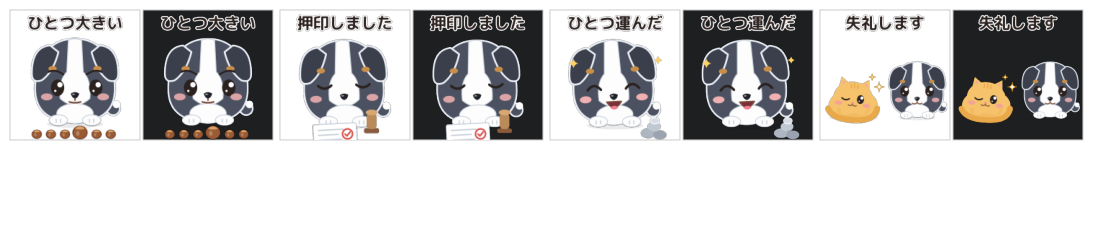
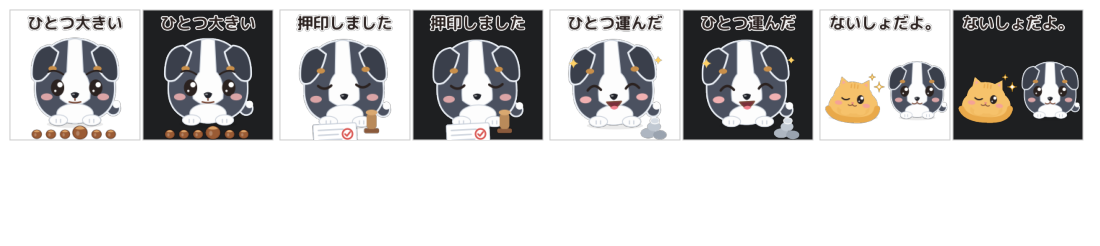
ADR-0129: the four duo stickers go up as normal stickers, the test is not run; P1 caption 'Bi mat nha'; stale notes in spec 19, H33 and the handoffs corrected

Changed region(s): [[0.7418, 0.0569, 0.9891, 0.1423]]

diff --git a/docs/plans/assets/paws/build_duo_stickers.py b/docs/plans/assets/paws/build_duo_stickers.py
@@ -220,9 +220,9 @@ STK_LIST = [
     ("D3", "one-pebble", ("Xong một viên.", "One pebble.", "ひとつ運んだ"), ("Xong một viên", "One pebble", "ひとつ運んだ"),
      ("Paws vừa mang một viên sỏi đến đống sỏi, đặt xuống và tự hào", "carried one pebble to the pile, put it down and looks proud", "小石をひとつ山まで運んで置き、とくいげにしている"),
      {"vi": ["tự hào", "xong", "việc nhỏ", "sỏi"], "en": ["proud", "small win", "done", "pebble"], "ja": ["ほこらしい", "ひとつ", "小石"]}, "d3"),
-    ("P1", "excuse-me", ("Xin phép nhé.", "Excuse me.", "失礼します"), ("Xin phép nhé", "Excuse me", "失礼します"),
-     ("Paws rón rén đi ngang qua Peak đang ngủ; Peak hé một mắt nhìn theo", "tiptoes past sleeping Peak; Peak opens one eye and watches", "ねているPeakのそばをそろそろと通りぬける。Peakは片目をあけて見ている"),
-     {"vi": ["xin phép", "rón rén", "lịch sự", "ngủ"], "en": ["polite", "excuse me", "tiptoe", "nap"], "ja": ["失礼", "ていねい", "ねている", "そろそろ"]}, "p1"),
+    ("P1", "our-secret", ("Bí mật nha.", "Our secret.", "ないしょだよ。"), ("Bí mật nha", "Our secret", "ないしょだよ"),
+     ("Peak nháy mắt như chia sẻ một bí mật, Paws ngồi cạnh mỉm cười", "winks as if sharing a secret, with Paws sitting beside, smiling", "ないしょだよ、とウインクしている。となりでPawsがほほえんでいる"),
+     {"vi": ["bí mật", "nháy mắt", "hai đứa", "lầy"], "en": ["secret", "wink", "friends", "cheeky"], "ja": ["ないしょ", "ウインク", "ふたり", "ひみつ"]}, "p1"),
     ("P2", "meeting", ("Họp nhé?", "Meeting?", "会議しよう？"), ("Họp nhé?", "Meeting?", "会議しよう？"),
      ("Paws ngậm một tờ giấy nhỏ ghi cuộc họp đưa ra; Peak nhìn lên trần nhà", "holds out a tiny paper marked as a meeting; Peak looks at the ceiling", "小さな会議のお知らせをくわえて差し出す。Peakは天井を見ている"),
      {"vi": ["họp", "cuộc họp", "né", "công sở"], "en": ["meeting", "office", "avoid", "invite"], "ja": ["会議", "ミーティング", "会社", "さける"]}, "p2"),

diff --git a/docs/handoff/website-duo-stickers.md b/docs/handoff/website-duo-stickers.md
@@ -1,10 +1,10 @@
 # Note to the website session: the four duo stickers are ready (handed over by the author's order)
 
-**From:** the sticker session, 2026-11-15, **by the author's order** ("settle the four pictures and hand them to the website"). **Status:** a handover of pictures; please read the open question at the end before you publish. This follows `website-duo-test.md` (the app session's information note) and spec 19 (`spec/19-duo-test-plan.md`).
+**From:** the sticker session, 2026-11-15, **by the author's order** ("settle the four pictures and hand them to the website"). **Status:** a handover of pictures; the decision is in ADR-0129 (publish now). This follows `website-duo-test.md` (the app session's information note) and spec 19 (`spec/19-duo-test-plan.md`).
 
 ## What is delivered
 A set of **four stickers**, `docs/plans/assets/paws/set-duo-4/` (a folder like `set-v2`):
-- `vi/`, `en/`, `ja/` with `one-is-off.png`, `stamped.png`, `one-pebble.png`, `excuse-me.png` (360 x 360, transparent, flat, caption baked in, as set-v2; the file name is the English slug).
+- `vi/`, `en/`, `ja/` with `one-is-off.png`, `stamped.png`, `one-pebble.png`, `our-secret.png` (360 x 360, transparent, flat, caption baked in, as set-v2; the file name is the English slug).
 - `manifest.json`: per sticker `id` (D1, D2, D3, P1), `slug_en`, `file`, `kind`, `text`, `title`, `alt`, `synonyms`, `reviewed` per language, plus the licence and font credits copied from set-v2. The shape follows `set-v2/manifest.json` and spec 13 section 2; **tags (`emotions`, `situations`, `edge`) are not given**: your keyword rules give them at build time (spec 13), and the build will name any caption the rules do not match.
 - Look at them first in `docs/plans/assets/paws/stickers-draft/duo-stickers-vi.png`.
 
@@ -13,7 +13,7 @@ A set of **four stickers**, `docs/plans/assets/paws/set-duo-4/` (a folder like `
 | D1 | `one-is-off` | Lệch một hạt. | One is off. | ひとつ大きい | Paws looks at a straight row of chestnuts, one is bigger |
 | D2 | `stamped` | Đã đóng dấu. | Stamped. | 押印しました | Paws, calm, a stamp and a paper with a red tick |
 | D3 | `one-pebble` | Xong một viên. | One pebble. | ひとつ運んだ | Paws, proud, beside a small pile of pebbles |
-| P1 | `excuse-me` | Xin phép nhé. | Excuse me. | 失礼します | Peak winks (one eye shut, two sparkles on the open-eye side), Paws sits beside |
+| P1 | `our-secret` | Bí mật nha. | Our secret. | ないしょだよ。 | Peak winks (one eye shut, two sparkles on the open-eye side), Paws sits beside |
 
 ## Facts that matter for the pages
 - **A new character: Paws, a black-and-white dog, Peak's partner** (ADR-0127, ADR-0128). The name Paws is not printed on the stickers. Peak is unchanged. Licence **CC BY 4.0** like all the others (ADR-0126); the font credits are the same as set-v2.
@@ -22,8 +22,8 @@ A set of **four stickers**, `docs/plans/assets/paws/set-duo-4/` (a folder like `
 - The counters stay as they are (ADR-0092, no new counter); `popular.json` is not changed.
 - No arm strokes, no meme text, no health claim in any caption.
 
-## Open question for the author (not for you to decide)
-Whether the four go **live at once** or are **held until the author orders the test** (spec 19 says the test is not ordered yet, and `website-duo-test.md` said "do not change the site yet"). If this note is read as "publish now", ask the author; the pictures are final but not yet seen in a browser, and the Worker (V-159) is not checked.
+## Decided by the author (ADR-0129)
+**Publish now, as normal stickers. The duo test of spec 19 is not run** (no control among the four). Do not build a test row, a daily order change or a day-7 swap; the stickers stand in the set like the others. The earlier note `website-duo-test.md` is superseded.
 
 ## Not verified
 The author has not seen the four in a browser or on a phone; the PNGs were rendered with PyMuPDF; the en and ja lines have no native reader; the tags are untried (your rules decide them); the sticker at 32 px (D1's chestnuts and D2's stamp are small there).

diff --git a/docs/handoff/README.md b/docs/handoff/README.md
@@ -45,9 +45,9 @@ Notes handed **from one session or conversation to another** (a product discussi
 | [`licensing-and-brand-assets.md`](licensing-and-brand-assets.md) | a licensing and brand discussion (Vinh and Claude), written for Claude Code | 2026-11-15 | **received; handled on 2026-11-15**: the inventory and the SignPath check (`../plans/brand-inventory.md`), spec 18; the author decided to **keep MIT and CC BY as before, with no trademark policy** (ADR-0126, which supersedes ADR-0125); nothing in `LICENSE`, the README, CONTRIBUTING or the site changes. Corrections: the stickers are in the repository (`set-v2`) and already CC BY 4.0 (ADR-0051) | Proposes direction B: the code open (MIT) and the character Peak, its name and its images under their own terms, to keep merch and commercial stickers; says it is not legal advice and the final texts need the author and a lawyer |
 | [`duo-characters-hypothesis.md`](duo-characters-hypothesis.md) | the author (the idea) with an analysis in Claude chat and a comparison with a Gemini proposal | 2026-11-15 | **received; handled on 2026-11-15 as documents**: spec 19 (the test plan), `../plans/duo-charter-impact.md`, `../plans/duo-name-candidates.md`, hypothesis H33, E31; **no change to the app** (the note forbids it); corrections: the specs are in `spec/`, the sticker page is spec 13, spec 10 was taken, "one Peak" is ADR-0068 and not the README; the name **Paws** was chosen by the author and the pasted SVG was render-checked on 2026-11-15 (`../plans/duo-paws-svg-check.md`) | Proposes a second character opposite Peak (a hard-working dog) as an idea to be checked before anything is built; a document for the docs folder only |
 | [`website-brand-terms.md`](website-brand-terms.md) | the app session | 2026-11-15 | **nothing to change** (ADR-0126: the licences stay as they were) | Lists the site texts that would change if the author chooses direction B2, and the fact that the published stickers carry two licences |
-| [`website-duo-test.md`](website-duo-test.md) | the app session | 2026-11-15 | **for information; nothing to change yet** (the test is a plan, not ordered) | The eight stickers of the duo test, the order rule and what to confirm in advance (the counting Worker) |
-| [`website-duo-stickers.md`](website-duo-stickers.md) | the sticker session | 2026-11-15 | **a handover to the website session**, by the author's order; whether to publish at once is an open question for the author | The four duo stickers (D1-D3, P1; `docs/plans/assets/paws/set-duo-4/`), what is parked, no control among the four |
-| [`sticker-paws-reference.md`](sticker-paws-reference.md) | the app session | 2026-11-15 | **a request to the sticker session** (ADR-0127); **picked up and answered 2026-11-15**: the reference sheet is drawn (`docs/plans/paws-reference-sheet.md`), waiting for the author's look | The reference drawing of Paws, the dog, with what the render check found; the author looks at it before anything else is drawn |
+| [`website-duo-test.md`](website-duo-test.md) | the app session | 2026-11-15 | **superseded 2026-11-15** by `website-duo-stickers.md` and ADR-0129 (four stickers, up now, the test is not run) | The eight stickers of the duo test, the order rule and what to confirm in advance (the counting Worker) |
+| [`website-duo-stickers.md`](website-duo-stickers.md) | the sticker session | 2026-11-15 | **a handover to the website session**, by the author's order; the four go up now (ADR-0129) | The four duo stickers (D1-D3, P1; `docs/plans/assets/paws/set-duo-4/`), what is parked, no control among the four |
+| [`sticker-paws-reference.md`](sticker-paws-reference.md) | the app session | 2026-11-15 | **a request to the sticker session** (ADR-0127); **done 2026-11-15**: Paws is option A (ADR-0128) and the stickers are handed over (`website-duo-stickers.md`) | The reference drawing of Paws, the dog, with what the render check found; the author looks at it before anything else is drawn |
 
 ## Where the handoff was out of date when received
 

diff --git a/docs/plans/verification-debt.md b/docs/plans/verification-debt.md
@@ -245,4 +245,4 @@ How the agent checks on the real machine: run from the author's Terminal panel (
 | V-166 | PS-10: the cost (36 ms a capture, about 0.4% of a core) was measured on **one** i5-7300U with one monitor in a release build; a weaker machine, a 4K screen and several monitors are not measured. | The test `the_capture_costs` and the task manager on those machines |
 | V-167 | The reference sheet of Paws (`docs/plans/paws-reference-sheet.md`, drawn 2026-11-15): **the author has not looked at it**; the PNG renders were made with PyMuPDF, not Chrome, and the SVG was not opened in an `<img>` tag or a chat app; the rim contrast against dark chats was judged by eye on two grounds (#1e1f22, #2b2d31); the side view's near and far feet are close; whether it reads as a Border Collie to someone who knows the breed | the author looks at `assets/paws/paws-reference-sheet.png` and `paws-check.png`; open `paws-front.svg` in an `<img>` and in a chat | Vinh | 2026-11-15 |
 | V-162 | The reference sheet of Paws (`docs/plans/paws-reference-sheet.md`, drawn 2026-11-15): **the author has not looked at it**; the PNG renders were made with PyMuPDF, not Chrome, and the SVG was not opened in an `<img>` tag or a chat app; the rim contrast against dark chats was judged by eye on two grounds (#1e1f22, #2b2d31); the side view's near and far feet are close; whether it reads as a Border Collie to someone who knows the breed | the author looks at `assets/paws/paws-reference-sheet.png` and `paws-check.png`; open `paws-front.svg` in an `<img>` and in a chat | Vinh | 2026-11-15 |
-| V-168 | The eight duo stickers (`docs/plans/paws-duo-stickers.md`, drawn 2026-11-15, **drafts**; **only four are kept for now**, D1-D3 and P1 without beads; P2, S1, C1, C2 are parked, so the controls of spec 19 are missing): the author has not looked at them; the en and ja lines are AI-written and unreviewed (as V-99, V-122); PNGs rendered with PyMuPDF, not Chrome; the four-panel story S1 is small at 32 px (the panels do not read); P1 and S1 were redrawn after the author's first look (the beads removed) and not looked at again; spec 19's bead scene is no longer what is drawn; the tags and synonyms are a first guess (the build dictionary of spec 13 was not run on them); nothing is added to the site or the app; the counting Worker (V-159) is not checked | the author looks at `assets/paws/stickers-draft/duo-stickers-vi.png` and the `review_*.png`; a native reader reads the en and ja lines; run the spec 13 tag build on `manifest.json` | Vinh | 2026-11-15 |
+| V-168 | The eight duo stickers (`docs/plans/paws-duo-stickers.md`, drawn 2026-11-15, **drafts**; **only four are kept for now**, D1-D3 and P1 without beads; P2, S1, C1, C2 are parked, so the controls of spec 19 are missing and the test is not run, ADR-0129; P1's caption became "Bí mật nha.", read by no one yet): the author has not looked at them; the en and ja lines are AI-written and unreviewed (as V-99, V-122); PNGs rendered with PyMuPDF, not Chrome; the four-panel story S1 is small at 32 px (the panels do not read); P1 and S1 were redrawn after the author's first look (the beads removed) and not looked at again; spec 19's bead scene is no longer what is drawn; the tags and synonyms are a first guess (the build dictionary of spec 13 was not run on them); nothing is added to the site or the app; the counting Worker (V-159) is not checked | the author looks at `assets/paws/stickers-draft/duo-stickers-vi.png` and the `review_*.png`; a native reader reads the en and ja lines; run the spec 13 tag build on `manifest.json` | Vinh | 2026-11-15 |

diff --git a/docs/plans/paws-duo-stickers.md b/docs/plans/paws-duo-stickers.md
@@ -9,7 +9,7 @@ All in [`assets/paws/stickers-draft/`](assets/paws/stickers-draft/), built by `a
 | D1 | Paws alone | looks at a straight row of chestnuts; one is bigger, worried brows | Lệch một hạt. / One is off. / ひとつ大きい |
 | D2 | Paws alone | calm, a stamp beside a paper with a red tick, nobody will read it | Đã đóng dấu. / Stamped. / 押印しました |
 | D3 | Paws alone | happy and proud beside a small pile of pebbles, sparkles | Xong một viên. / One pebble. / ひとつ運んだ |
-| P1 | the pair | Peak winks (one eye shut, two sparkles on the open-eye side, no z); Paws sits beside (no beads) | Xin phép nhé. / Excuse me. / 失礼します |
+| P1 | the pair | Peak winks (one eye shut, two sparkles on the open-eye side, no z); Paws sits beside (no beads) | Bí mật nha. / Our secret. / ないしょだよ。 |
 | P2 | the pair | Paws holds a tiny paper (a meeting) in the mouth; Peak looks at the ceiling | Họp nhé? / Meeting? / 会議しよう？ |
 | S1 | four panels | Paws creeps in from far (small), nearer, just past Peak (Peak opens one eye, no z), well past and bigger | Có xin phép. / Asks first. / ちゃんと許可 |
 | C1 | control, Peak | Peak eyes a cup at the edge of a table (two legs) | Rơi thử? / Just testing. / ためしただけ |
@@ -19,6 +19,9 @@ Voice kept: the dog's work is small, useless and sometimes ruined (D1, D2); the 
 
 ## Decision of the author (2026-11-15): four for now
 **Only D1, D2, D3 and P1 are kept for now.** P1 is the first drawing (Peak with one eye open and no z, Paws sitting beside) **without the string of beads**. P2, S1, C1 and C2 are **parked** in `assets/paws/stickers-draft/parked/` (drawn, not in the manifest, not for the site). Note for the test: the spec 19 plan needs eight (and the two Peak controls C1, C2); with four the control is missing, so the author decides later whether to run the test as planned.
+
+## Decisions (ADR-0129)
+The four go up now as normal stickers; the duo test is not run; P1's caption was changed to "Bí mật nha." (the beads are gone, so "Excuse me" no longer fitted).
 
 ## Changes after the author's first look (2026-11-15)
 - **The string of beads is gone** from P1 and S1 (it did not show the idea, and Paws had not passed Peak). Spec 19's P1/S1 scene (a string of beads laid across the cat's back) is replaced by **Paws creeping past sleeping Peak**; the app session may update spec 19 section 3 (a note, not an edit here).

diff --git a/docs/hypotheses/README.md b/docs/hypotheses/README.md
@@ -76,4 +76,4 @@ These are relied upon and need checking before a wider release.
 | A9 | The first-run tour, the belly-rub trap rate, the mood tags and the new Settings pages feel right to a person seeing them for the first time. | Observe 5 to 10 first-time users (also a goal in spec/02) |
 | A10 | A build records per-day counters only for people who agreed at the current consent version. | Partly verified 2026-11-08 on the new build: consent on without a version recorded no `days`. Still to check on the 0.1.14 installer (it contains the old prototype) and with consent off |
 | H32 | When the person asks Peak to step aside, a clear place beyond the pointer serves them better than a fixed short walk (it does not stop on other content and does not need asking twice). | testing (round 12: one case seen) | `aside_place` lines in a day of use, the number of repeated asks within a minute, and the author's feeling. | the author's idea, 2026-11-15 |
-| H33 | A hard-working dog beside Peak (the cat unhurried, the dog earnest, neither working for the person) makes stickers that people copy and share at least as much as new stickers of Peak alone, without taking attention from Peak's older stickers. | untested (a plan, spec 19; nothing drawn) | The counters of ADR-0092 over 14 days: the pair stickers against two new control stickers of Peak, the dog alone, and the fall of Peak's old stickers (stop if over 20%); direct remarks from five to eight people. | the author's idea, handoff `duo-characters-hypothesis.md`, 2026-11-15 |
+| H33 | A hard-working dog beside Peak (the cat unhurried, the dog earnest, neither working for the person) makes stickers that people copy and share at least as much as new stickers of Peak alone, without taking attention from Peak's older stickers. | untested (a plan, spec 19; four dog stickers are drawn and go up as normal stickers, ADR-0129; the test is not run: no control) | The counters of ADR-0092 over 14 days: the pair stickers against two new control stickers of Peak, the dog alone, and the fall of Peak's old stickers (stop if over 20%); direct remarks from five to eight people. | the author's idea, handoff `duo-characters-hypothesis.md`, 2026-11-15 |

diff --git a/docs/plans/README.md b/docs/plans/README.md
@@ -68,7 +68,7 @@ The files are grouped here, not in folders (decided at gate 2 of the foundation 
 | [`peak-origin-and-lawyer-questions.md`](peak-origin-and-lawyer-questions.md) | How Peak was made (a statement of facts) and the questions for a lawyer (R6) |
 | [`duo-charter-impact.md`](duo-charter-impact.md) | What a second character (a dog) would touch in the charter and the documents; where "one Peak" is really written (E31) |
 | [`duo-name-candidates.md`](duo-name-candidates.md) | Five candidate names for the dog and what a web search found (not a trademark search) |
-| [`paws-reference-sheet.md`](paws-reference-sheet.md) | The reference sheet of Paws, the dog (front and side view, the check at 256, 64 and 32 px on light and dark grounds), drawn by the sticker session for ADR-0127; the author looks at it before any dog sticker | drawn 2026-11-15; waiting for the author's look |
+| [`paws-reference-sheet.md`](paws-reference-sheet.md) | The reference sheet of Paws, the dog (front and side view, the check at 256, 64 and 32 px on light and dark grounds), drawn by the sticker session for ADR-0127; the author looks at it before any dog sticker | superseded by the look of ADR-0128 (option A) |
 | [`paws-options.md`](paws-options.md) | Three cuter options for Paws (A Mochi, B Big head, C Sitting), after the author said the first sheet was not as cute as Peak | drawn 2026-11-15; author picked A (ADR-0128) |
 | [`paws-duo-stickers.md`](paws-duo-stickers.md) | The eight duo-test stickers of spec 19 (D1-D3, P1-P2, S1, C1-C2), drafts in vi/en/ja | drawn 2026-11-15; waiting for the author's look |
 | [`duo-paws-svg-check.md`](duo-paws-svg-check.md) | The name Paws (a web search, the weak points) and a render check of the reference SVG at 256 and 32 px on light and dark grounds |

diff --git a/spec/19-duo-test-plan.md b/spec/19-duo-test-plan.md
@@ -1,5 +1,6 @@
 # 19. The duo test: a hard-working dog beside Peak, tried with stickers first
 
+**Update (2026-11-15, later): ADR-0128 and ADR-0129: Paws is drawn as option A; the author kept FOUR stickers (D1, D2, D3 and a P1 without the beads, whose caption is "Our secret."); P2, S1, C1 and C2 are parked; the four go up as normal stickers and THIS TEST IS NOT RUN (no control, so section 5 cannot be applied). Sections 3 to 5 below are kept as the original plan.**
 **Update (2026-11-15): ADR-0127: the name is Paws; the reference drawing goes to the sticker session first (`docs/handoff/sticker-paws-reference.md`) and the test starts only after the author has looked at it and the counting Worker has been checked.**
 **Status:** a plan, written 2026-11-15 from the handoff [`docs/handoff/duo-characters-hypothesis.md`](../docs/handoff/duo-characters-hypothesis.md). **Nothing is built, nothing is added to the app, and no dog is drawn yet.** It is a hypothesis (H33) and a test of it; the decision to put a dog in the app is not taken and is not asked for here. The sticker work belongs to the sticker session and the page to the website session; this spec says what to ask of them.
 **Numbering and sources (the handoff had them wrong).** The spec is 19 because 10 is the terrain model; the sticker page is [`spec/13`](13-sticker-page.md) (not 09); the specs are in `spec/`, not `docs/spec/`; the constraint "one Peak" is ADR-0068 (a guard against a second start of the program), not a line of the README; the customization spec is [`spec/15`](15-customization.md). The licences are those of ADR-0126 (MIT, stickers CC BY 4.0; no trademark policy).

diff --git a/docs/decisions/README.md b/docs/decisions/README.md
@@ -15,6 +15,7 @@ What was **decided**, why, and what was rejected. One short file per decision (a
 | [0128](0128-the-screen-picture-switch-in-settings-off-by-default.md) | The screen picture gets a switch in Settings, off by default, and it only senses: nothing is drawn (built, not released) | accepted | the author, 2026-11-15 |
 | [0127](0127-the-dog-is-called-paws-and-the-duo-test-follows-the-reference-drawing.md) | The dog is called Paws (no registry search, risk accepted); the duo test starts only after the author has looked at the reference drawing | accepted | the author, 2026-11-15 |
 | [0128](0128-paws-is-drawn-as-the-mochi-option.md) | Paws is drawn as option A, "Mochi" (one round bean, floppy ears) | accepted | the author, 2026-11-15 |
+| [0129](0129-four-duo-stickers-go-up-as-normal-stickers-no-test.md) | The four duo stickers (D1-D3, P1) go up now as normal stickers; the duo test of spec 19 is not run | accepted | the author, 2026-11-15 |
 | [0126](0126-keep-mit-and-cc-by-as-before.md) | Keep the licences as they were: MIT for the code and the app's art, CC BY 4.0 for the stickers; no trademark policy (supersedes 0125) | accepted | the author, 2026-11-15 |
 | [0125](0125-brand-and-licence-direction-b2.md) | The brand and the licence: the code stays MIT, the names and the logo are kept, every sticker is free under CC BY 4.0 | superseded by 0126 | spec/18, handoff licensing |
 | [0124](0124-indexnow-after-a-deploy.md) | IndexNow: a public key file at the root and a ping of the sitemap's addresses after a deploy (a warning, never a failed deploy) (the website session) | accepted, built (not published) | 2026-11-15 |

diff --git a/docs/decisions/0129-four-duo-stickers-go-up-as-normal-stickers-no-test.md b/docs/decisions/0129-four-duo-stickers-go-up-as-normal-stickers-no-test.md
@@ -1,0 +1,19 @@
+# ADR-0129: The four duo stickers go up now as normal stickers; the duo test of spec 19 is not run
+
+- **Status:** accepted on 2026-11-15 (the author's answers)
+- **Date:** 2026-11-15
+- **Decided by:** Vinh (author), recorded by the sticker session
+
+## Context
+Spec 19 planned a test of eight stickers (H33) with two Peak stickers as a control. The author kept **four** (D1, D2, D3, P1; ADR-0128 for the look of Paws) and parked the other four. P1 lost its string of beads, so its caption no longer fitted the picture.
+
+## Decision
+1. **The four go up on the sticker pages now**, as normal stickers (the website session builds them from `docs/plans/assets/paws/set-duo-4/`, `docs/handoff/website-duo-stickers.md`).
+2. **The duo test of spec 19 is not run.** With four stickers there is no control, so the decision rule of spec 19 section 5 cannot be applied. H33 stays untested; nothing in the app changes; a dog in the app is still not decided.
+3. **P1's caption is changed to fit the picture** (Peak winks beside Paws): vi "Bí mật nha.", en "Our secret.", ja "ないしょだよ。" (slug `our-secret`).
+4. The parked four (P2, S1, C1, C2) stay in `docs/plans/assets/paws/stickers-draft/parked/`, not published.
+
+## Consequences
+- The counters of ADR-0092 count the four like any sticker; `popular.json` is not changed by the test (there is none).
+- Spec 19, H33 and the notes that said "eight stickers, a test, the name not chosen" are corrected to this.
+- The en and ja lines are unreviewed (as V-99, V-122); the Worker (V-159) is still unchecked.

diff --git a/docs/handoff/website-duo-test.md b/docs/handoff/website-duo-test.md
@@ -1,6 +1,6 @@
 # Note to the website session: the duo sticker test (information, nothing to change yet)
 
-**From:** the app session, 2026-11-15. **Status:** for information; **please do not change the site yet.** The test is a plan ([`spec/19-duo-test-plan.md`](../../spec/19-duo-test-plan.md), hypothesis H33); the stickers are not drawn and the author has not ordered the test.
+**From:** the app session, 2026-11-15. **Status:** *superseded on 2026-11-15 by `website-duo-stickers.md` and ADR-0129 (four stickers, up now, no test; the name is Paws).* Original status: for information; **please do not change the site yet.** The test is a plan ([`spec/19-duo-test-plan.md`](../../spec/19-duo-test-plan.md), hypothesis H33); the stickers are not drawn and the author has not ordered the test.
 
 When it starts, the sticker pages would show **eight new stickers** (three of a dog, two of the dog with Peak, one four-panel story, two new stickers of Peak as a control), in three languages, with the tags and aliases of spec 13. The counters of ADR-0092 are read as they are (no new counter); `popular.json` stays unchanged during the test; the new stickers stand in one row whose order is changed each day, or swapped at day 7. The dog's name is not chosen; the stickers carry no name until it is. All are CC BY 4.0 (ADR-0126).
 
